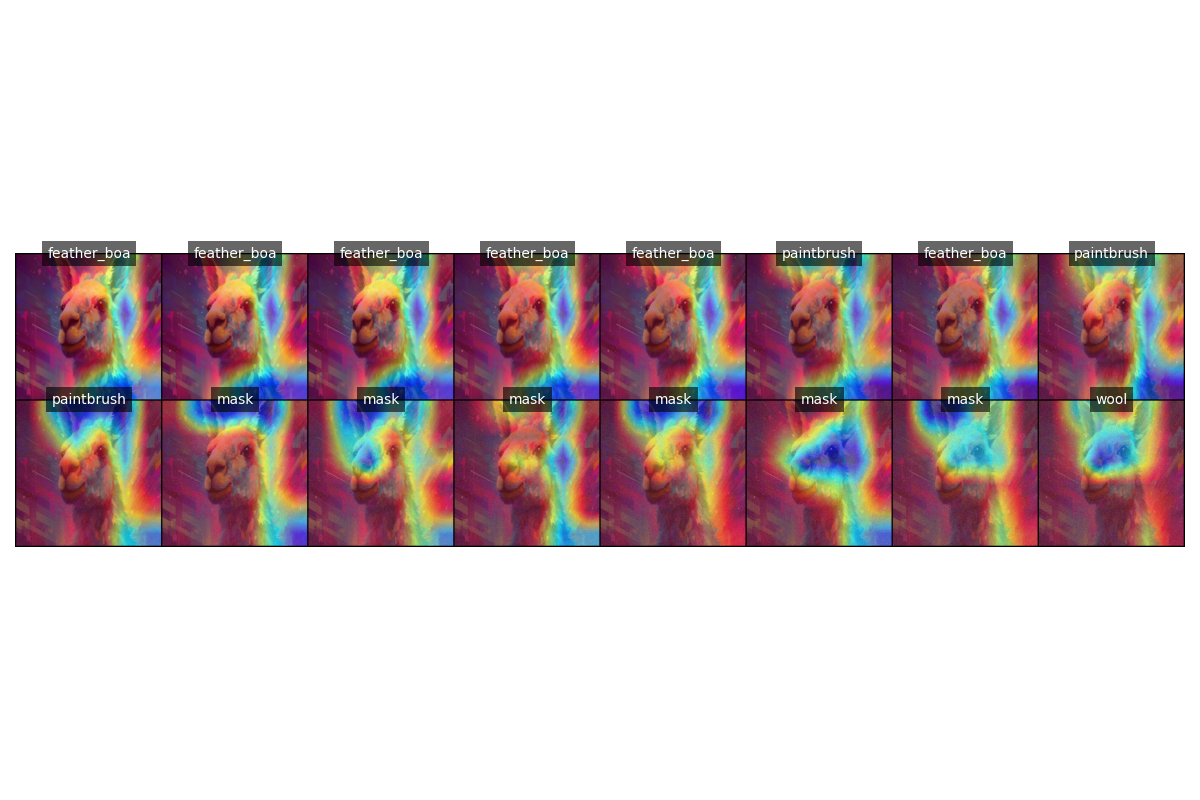
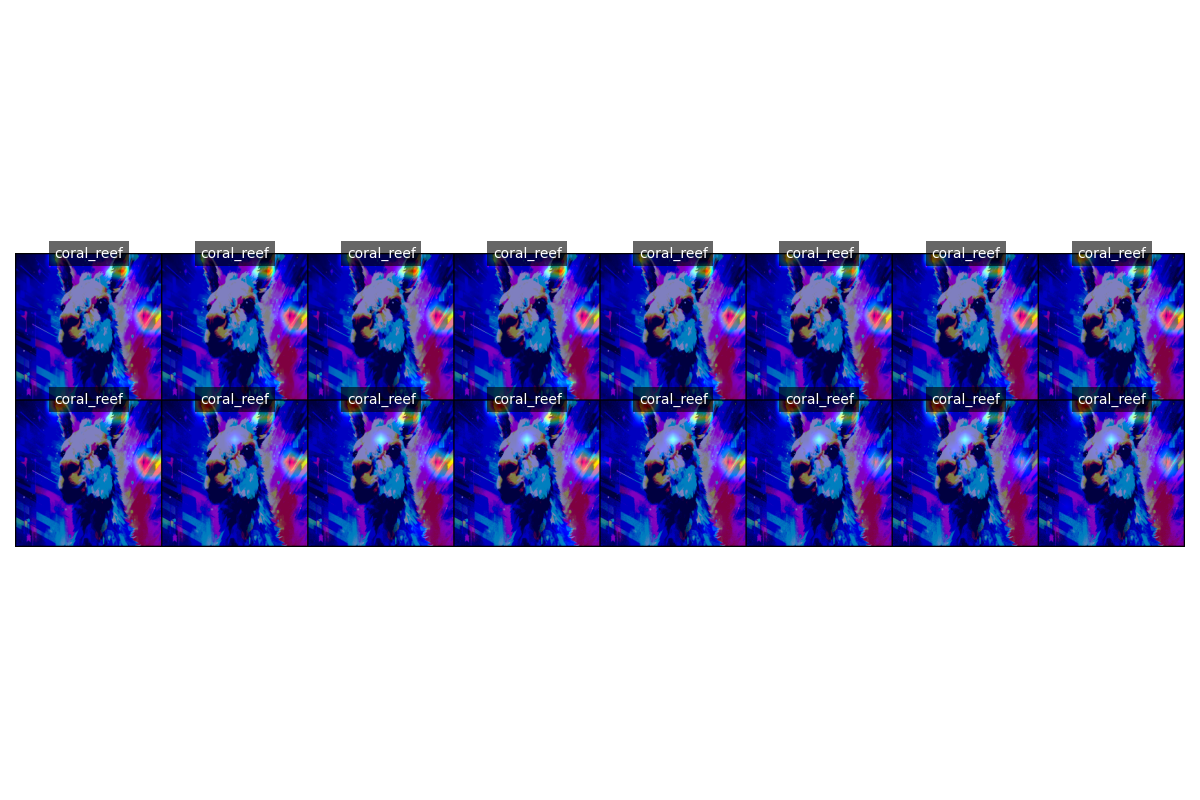
Pullin updates

diff --git a/xai_rai_units/scripts/explanations_noisy_images.py b/xai_rai_units/scripts/explanations_noisy_images.py
@@ -10,7 +10,7 @@ from xai_rai_units.src.utils import (
 def main(library="gradcam", method="GradCAM", model_name="alexnet", n_images=16, magnitude=0.1, seed=42):
     set_seed(seed)
 
-    filename = "cassette_player"
+    filename = "llama"
     preprocessed_image = load_local_images(filename)
 
     noisy_images = noisy_image_linspace(preprocessed_image, magnitude, n_images)
@@ -24,8 +24,8 @@ def main(library="gradcam", method="GradCAM", model_name="alexnet", n_images=16,
     )
 
     show_images(explanations, labels=pred_labels, save_fig=True,
-                      filename=f"{library}_{filename.split('.')[0]}_{model_name}.png")
+                      filename=f"{library}_{filename.split('.')[0]}_{model_name}")
 
 
 if __name__ == "__main__":
-    main(library="gradcam", method="GradCAM", model_name="alexnet", magnitude=0.8)
+    main(library="gradcam", method="GradCAM", model_name="resnet50", magnitude=0.1)

diff --git a/xai_rai_units/src/utils.py b/xai_rai_units/src/utils.py
@@ -508,7 +508,7 @@ def setup_model_and_layers(model_name: str) -> Tuple[nn.Module, List[nn.Module],
     elif model_name == "resnet50":
         target_layers = [model.layer4[-1].conv3]
     elif model_name == "swin_transformer":
-        target_layers = [model.layers[-1].blocks[-1].norm1]
+        target_layers = [model.layers[-1].blocks[-1].norm2]
         reshape_transform = reshape_transform_swin_transformer
     elif model_name == "vit":
         target_layers = [model.blocks[-1].norm1]
